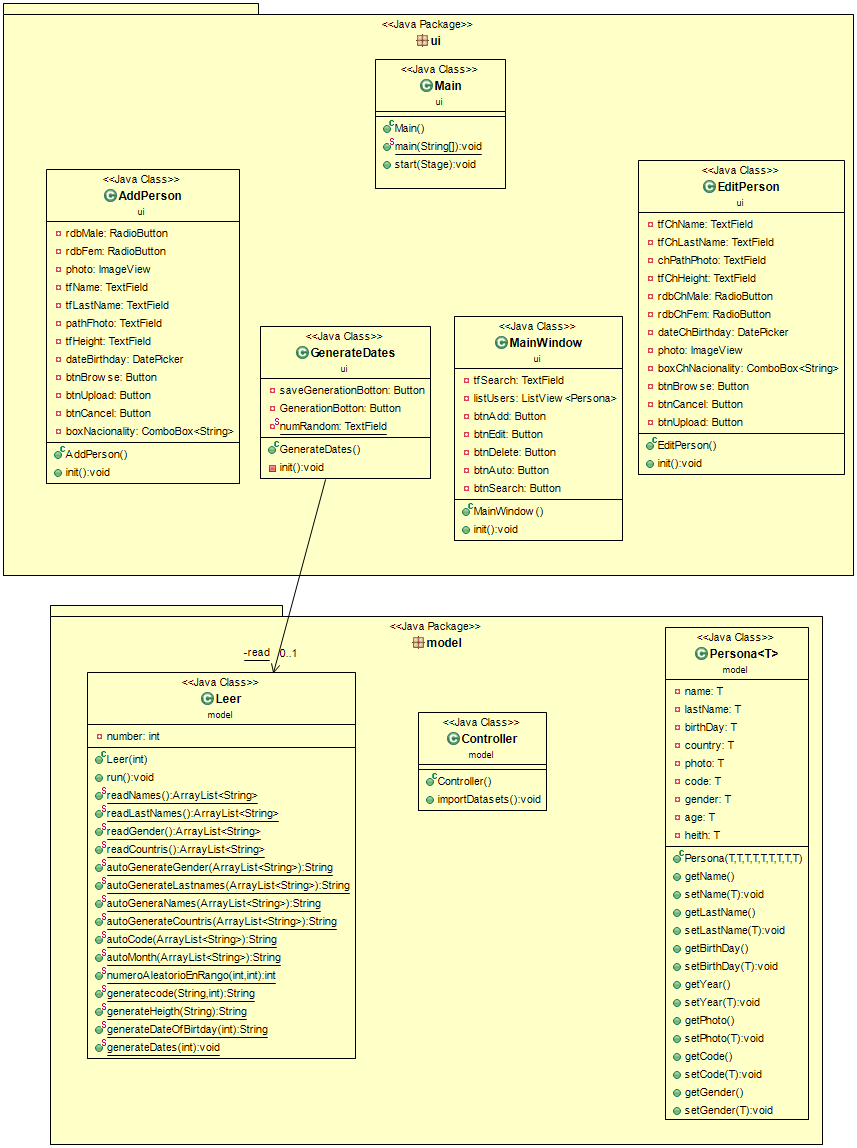
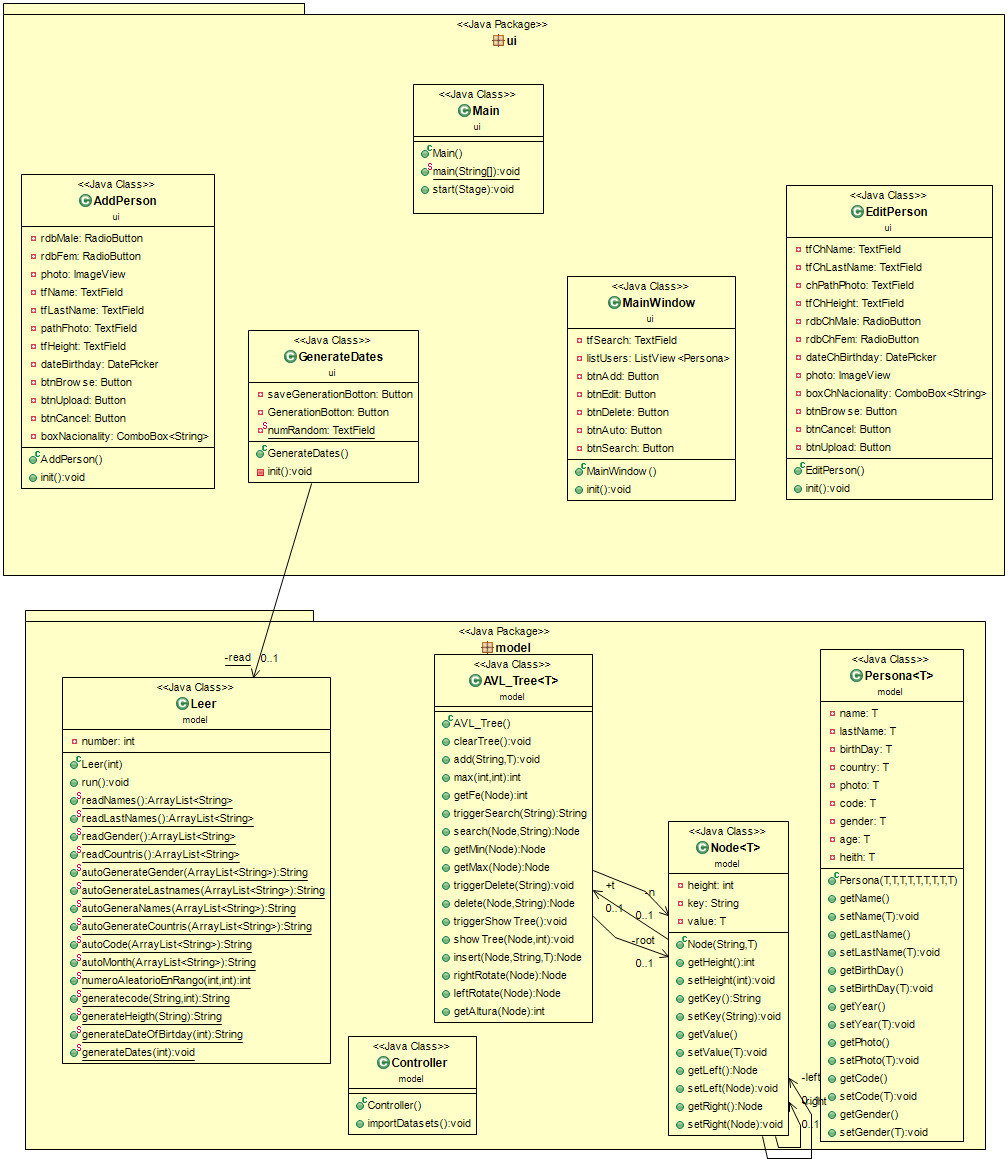
singleton

diff --git a/src/model/Leer.java b/src/model/Leer.java
@@ -14,6 +14,7 @@ import ui.Main;
 public class Leer extends Thread{
 
 	private int number;
+	public static AVL_Tree instance;
 
 	public Leer(int number) {
 		this.number=number;
@@ -21,6 +22,7 @@ public class Leer extends Thread{
 
 	@Override
 	public void run() {
+		instance=AVL_Tree.getInstance();
 		generateDates(number);
 	}
 
@@ -298,7 +300,10 @@ public class Leer extends Thread{
 				p.setBirthDay(d);
 				String h=generateHeigth((String) p.getGender());
 				p.setHeith(h);
-				p.printInfo();
+				
+			//se agrega  una persona generada al arbol
+				instance.add((String) p.getCode(),p);
+				//p.printInfo();
 				
 				//next
 			}

diff --git a/src/model/AVL_Tree.java b/src/model/AVL_Tree.java
@@ -5,10 +5,20 @@ import java.util.Comparator;
 
 public class AVL_Tree<T> {
 
+	public static AVL_Tree instance;
 	private Node root;
 
 	private Node n;
 
+	public static AVL_Tree getInstance() {
+		if (instance == null) {
+			instance = new AVL_Tree();
+			;
+		}
+
+		return instance;
+	}
+	
 	public void clearTree() {
 
 		root = null;
